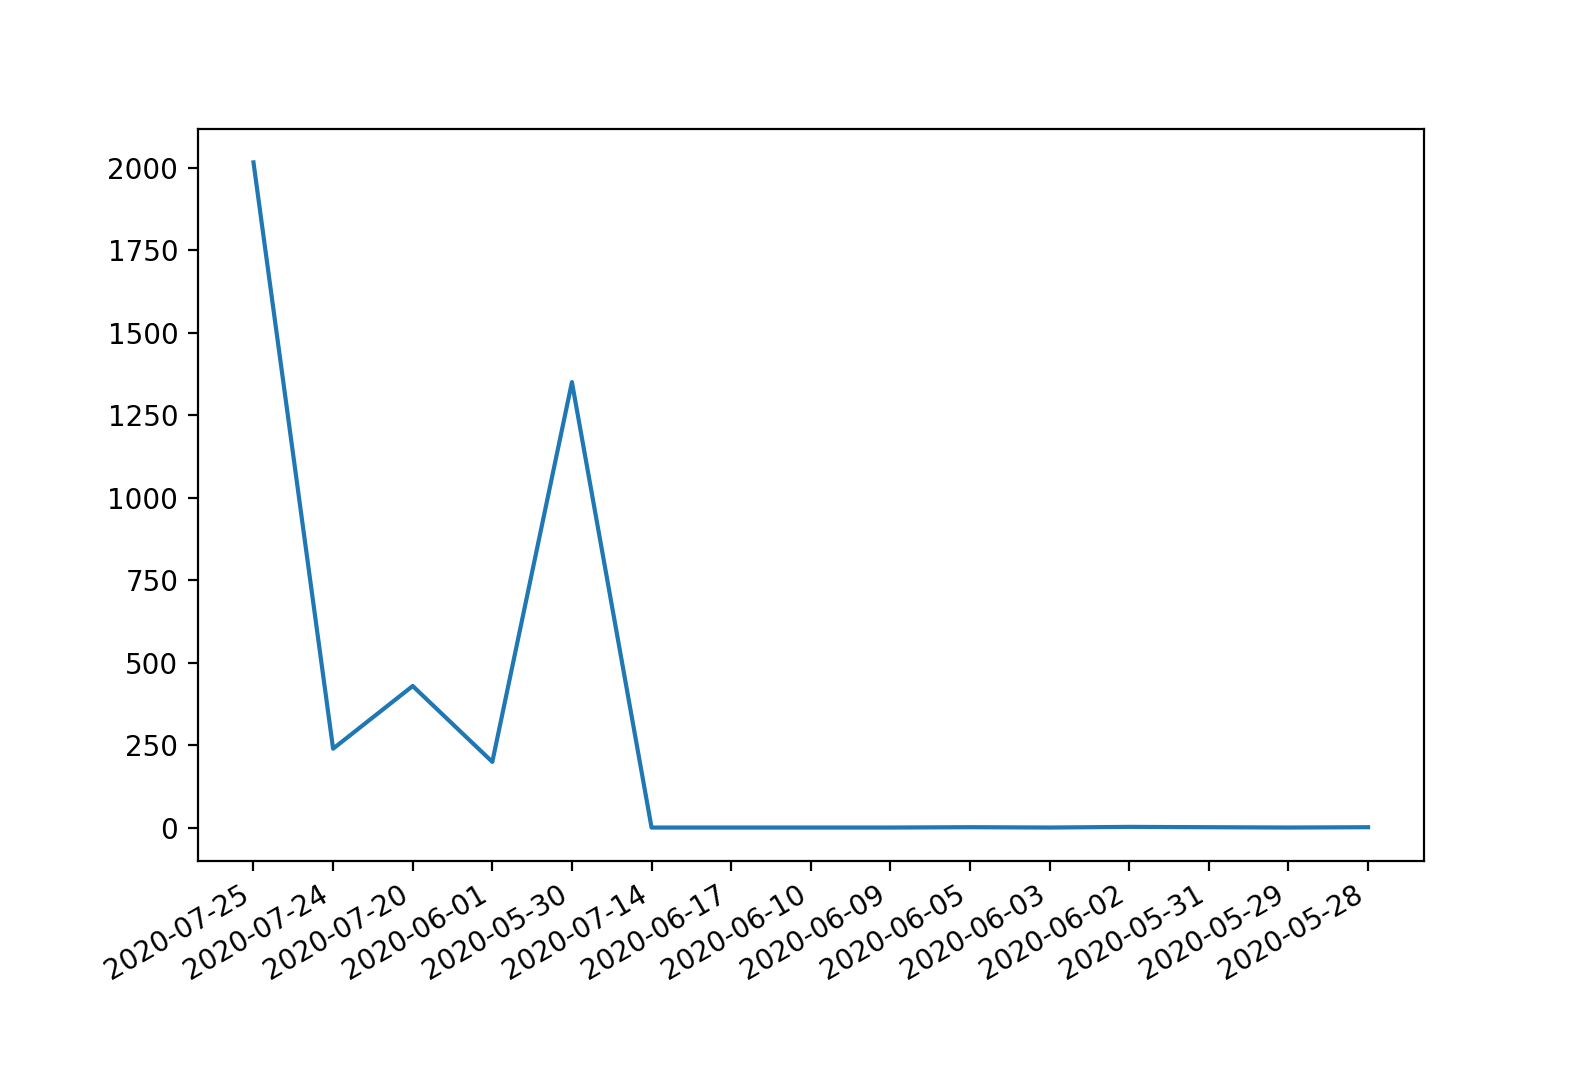
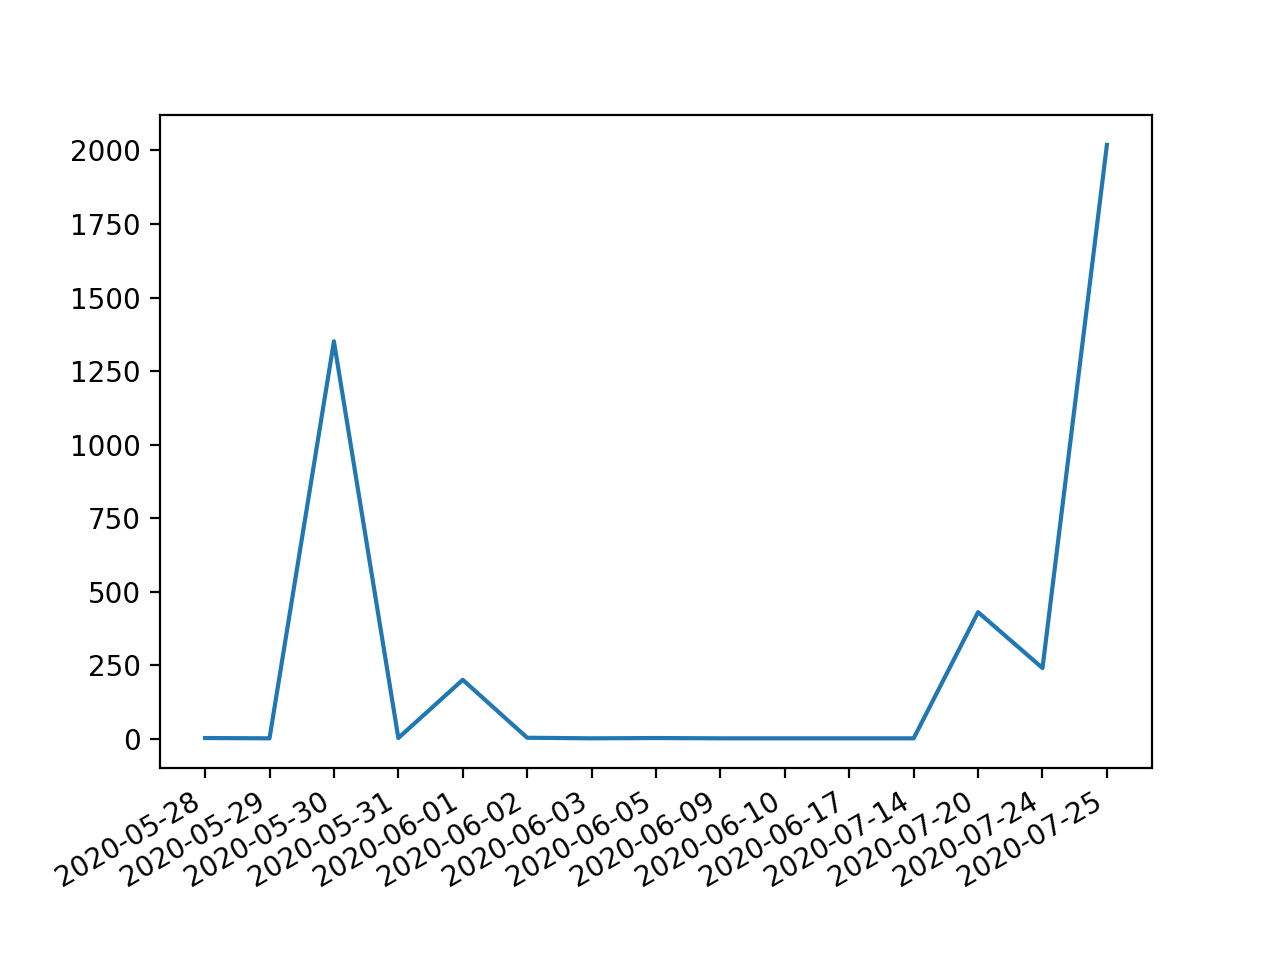
fix time sort in trend b14117

diff --git a/b14117_twitter_blacklivesmatter/i3advanced_price_sentiment_cor.py b/b14117_twitter_blacklivesmatter/i3advanced_price_sentiment_cor.py
@@ -28,9 +28,9 @@ with open("hot.pickle", "rb") as handle:
 
 
 
-for key, value in hot_dict.items():
+for key in sorted(hot_dict):
     # print(key, '#',value)
-
+    value = hot_dict[key]
     print('choose:', key, '#',value)
     dates.append(key)
     hots.append(value)
